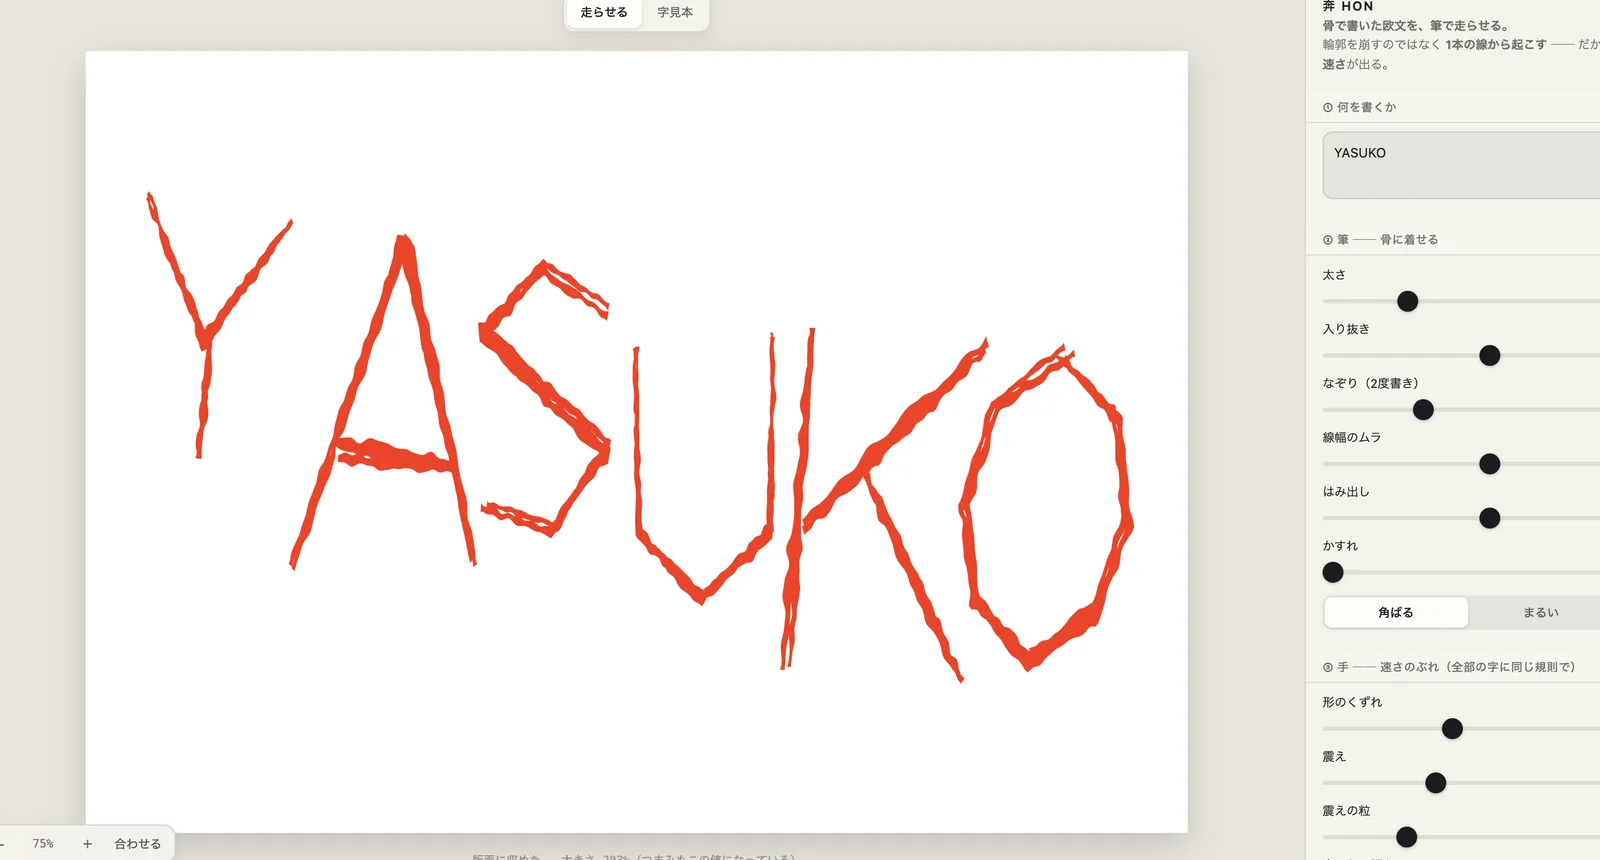
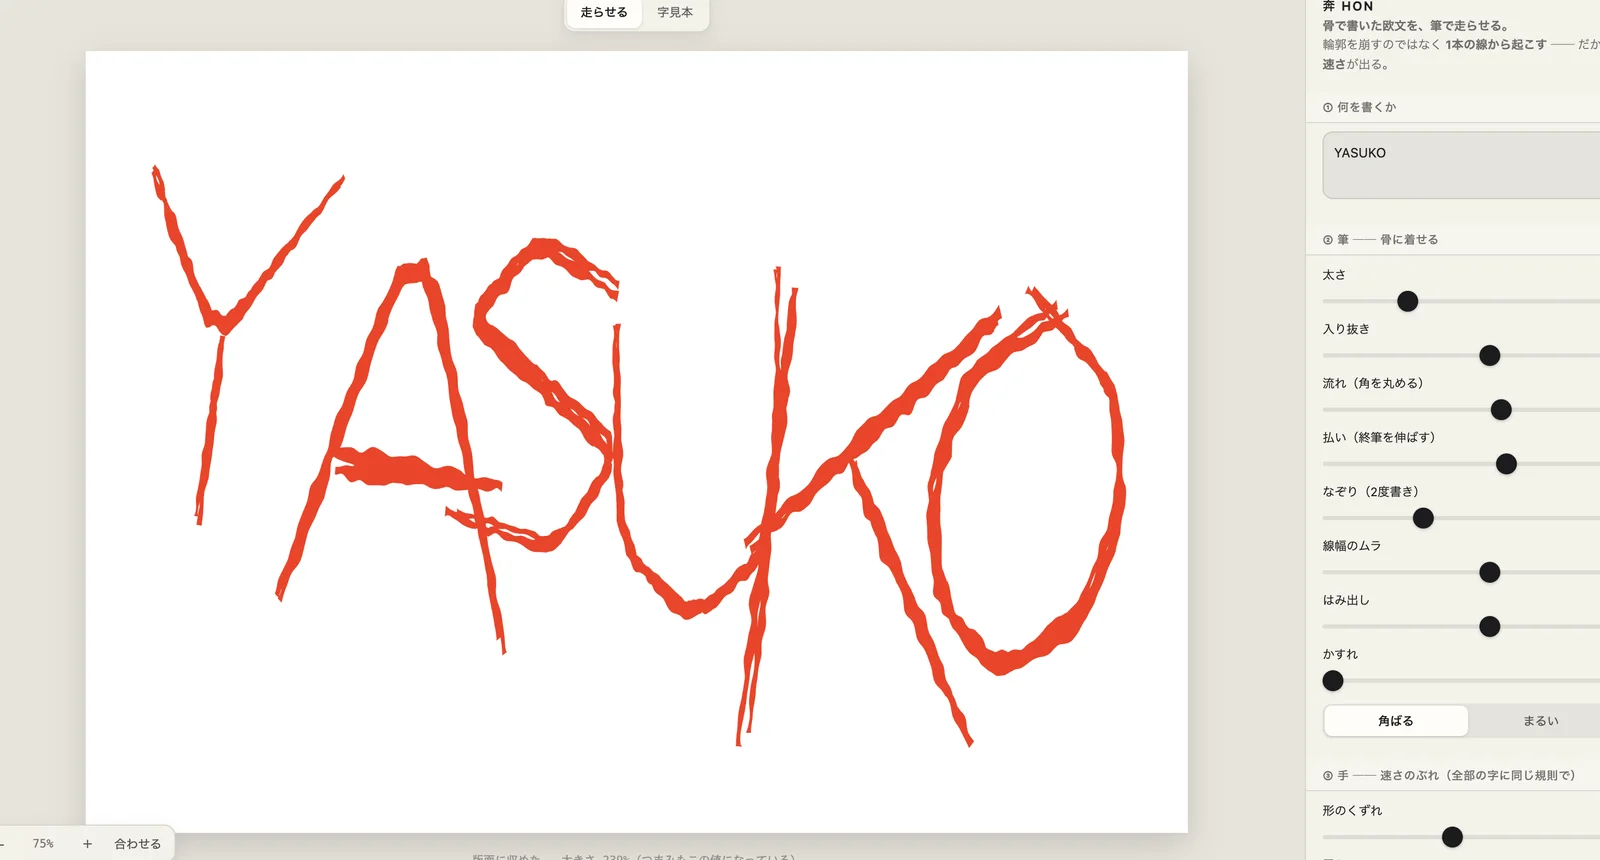
奔 HON：参考に寄せた ── ブロック体を崩したものではなく【続け書き】だった
木下「できているのをみているが全然違うな」「なんとか寄せてくれ！」

🔴 直す前は【ブロック体（幾何のポリライン）を崩したもの】だった。
   参考（ゆきてかへらぬの赤い手書き）を高い解像度で読むと**続け書き**で、
   角がぜんぶ丸く、終筆が長く鋭く払われ、字どうしが重なっていた。

⭐ 足した3つ
 ・**流れ（角を丸める）** ＝ Chaikin の切り落としを筆を着せる前に掛ける。
   ⚠ 端の点は動かさない（払いの先が縮むと抜きが効かない）
 ・**払い（終筆を伸ばす）** ＝ 入りより抜きを圧倒的に長く。
   ⚠ 両端おなじだけ伸ばすと「ただの延長」に見える
 ・入り抜きも**左右非対称**に ＝ 入りは短く鈍く・抜きは長く鋭く
   （左右対称だと「両端が細い棒」に見えていた）
⭐ 字送りを 76→62 に詰めて**字どうしを重ねた**／字ごとの傾きを 36→48

⭐ 前の回で入れた【形のくずれ】＝骨の点そのものを動かす。
   手書きが手書きに見えるのは「線が揺れる」からではなく
   **狙った位置に点が置けない**から（払いの先ほど狙いが外れるので端は1.5倍）。

回帰 16項目・例外0／サムネを焼き直し

Claude-Session: https://claude.ai/code/session_01J51kes4nuNVwXFRqMW8yBk

diff --git a/hon/index.html b/hon/index.html
@@ -119,6 +119,10 @@
     <input type="range" id="pW" min="4" max="200" value="58">
     <div class="row"><span class="n">入り抜き</span><output id="oTaper">58</output></div>
     <input type="range" id="taper" min="0" max="100" value="58">
+    <div class="row"><span class="n">流れ（角を丸める）</span><output id="oFlow">62</output></div>
+    <input type="range" id="flow" min="0" max="100" value="62">
+    <div class="row"><span class="n">払い（終筆を伸ばす）</span><output id="oSweep">64</output></div>
+    <input type="range" id="sweep" min="0" max="100" value="64">
     <div class="row"><span class="n">なぞり（2度書き）</span><output id="oTrace">2</output></div>
     <input type="range" id="trace" min="1" max="4" value="2">
     <div class="row"><span class="n">線幅のムラ</span><output id="oVary">58</output></div>
@@ -140,8 +144,8 @@
     <input type="range" id="jit" min="0" max="100" value="38">
     <div class="row"><span class="n">震えの粒</span><output id="oJg">30</output></div>
     <input type="range" id="jg" min="4" max="100" value="30">
-    <div class="row"><span class="n">字ごとの傾き</span><output id="oJr">36</output></div>
-    <input type="range" id="jr" min="0" max="100" value="36">
+    <div class="row"><span class="n">字ごとの傾き</span><output id="oJr">48</output></div>
+    <input type="range" id="jr" min="0" max="100" value="48">
     <div class="row"><span class="n">字ごとの大きさ</span><output id="oJs">46</output></div>
     <input type="range" id="js" min="0" max="100" value="46">
     <div class="row"><span class="n">上下のばらつき</span><output id="oJy">42</output></div>
@@ -155,8 +159,8 @@
     <label class="h">④ 走らせる</label>
     <div class="row"><span class="n">大きさ（‰）</span><output id="oSize">230</output></div>
     <input type="range" id="size" min="40" max="900" value="230">
-    <div class="row"><span class="n">字送り</span><output id="oAdv">76</output></div>
-    <input type="range" id="adv" min="30" max="200" value="76">
+    <div class="row"><span class="n">字送り</span><output id="oAdv">62</output></div>
+    <input type="range" id="adv" min="30" max="200" value="62">
     <div class="row"><span class="n">字幅（横に長く）</span><output id="oWide">66</output></div>
     <input type="range" id="wide" min="30" max="180" value="66">
     <div class="row"><span class="n">字高（縦に長く）</span><output id="oTall">118</output></div>
@@ -221,11 +225,13 @@ const S = {
   /* ⭐ 既定は【参考の実測】に寄せる（映画『ゆきてかへらぬ』の赤い手書き）。
      線幅は字の高さの 3.6%／字は縦長（幅:高さ ≒ 0.64）／1字は版面の幅の 21%。
      ⚠ 直す前は 線幅 5.8%・正方の箱だったので「全然違う」形になっていた。 */
-  pen:{ w:58, taper:58, vary:58, over:58, trace:2, dry:0, cap:0 },
+  /* ⭐ 参考は【ブロック体を崩したもの】ではなく【続け書き】── 角が丸く、終筆が長く鋭い。
+     だから 流れ（角を丸める）と 払い（終筆を伸ばす）を持つ。 */
+  pen:{ w:58, taper:58, flow:62, sweep:64, vary:58, over:58, trace:2, dry:0, cap:0 },
   /* ⭐ 参考は【字ごとの不揃いが強い】── 傾き・大きさ・上下がかなりばらつく。
      直す前の既定は整いすぎていて「機械が並べた」ように見えていた。 */
-  hand:{ warp:44, jit:38, jg:30, jr:36, js:46, jy:42, seed:7 },
-  run:{ size:230, adv:76, ang:10, x:8, y:14, wide:66, tall:118, w:1000, h:1500, col:'#e8452a' },
+  hand:{ warp:44, jit:38, jg:30, jr:48, js:46, jy:42, seed:7 },
+  run:{ size:230, adv:62, ang:10, x:8, y:14, wide:66, tall:118, w:1000, h:1500, col:'#e8452a' },
   view:'run',
   out:{ long:2400 },
 };
@@ -298,6 +304,26 @@ const boneOf = ch => BONE[ch.toUpperCase()] || null;
    ⭐ はみ出し＝端を少し伸ばす（交点を越えて走る）。
    ⚠ 震えは【道のりに沿ったなめらかな乱れ】＝画素ごとの乱数だと「ざらざら」になる。
    ══════════════════════════════════════════════════════════════ */
+/* ══⭐⭐ 流れ ── 骨の角を丸めて【続け書き】にする ══
+   🔴 骨は直線のポリライン＝そのまま筆を着せると「ブロック体を崩した字」になる。
+     参考（ゆきてかへらぬの赤い字）は**続け書き**で、角がぜんぶ丸い。
+   ⭐ Chaikin の切り落とし＝各辺の 1/4 と 3/4 に点を打ち直す。回すほど丸くなる。
+   ⚠ 端の点は動かさない（払いの先が縮むと、抜きが効かなくなる）。 */
+function chaikin(pts, k, times){
+  if(k <= 0 || pts.length < 3) return pts;
+  let P = pts;
+  for(let t=0;t<times;t++){
+    const out = [P[0]];
+    for(let i=0;i<P.length-1;i++){
+      const a = P[i], b = P[i+1];
+      out.push([ a[0] + (b[0]-a[0])*(0.25*k), a[1] + (b[1]-a[1])*(0.25*k) ]);
+      out.push([ a[0] + (b[0]-a[0])*(1-0.25*k), a[1] + (b[1]-a[1])*(1-0.25*k) ]);
+    }
+    out.push(P[P.length-1]);
+    P = out;
+  }
+  return P;
+}
 function resample(pts, step){
   const out = [pts[0]];
   let carry = 0;
@@ -321,11 +347,16 @@ function resample(pts, step){
 function strokeOutline(pts, w, seed){
   const P = S.pen, H = S.hand;
   /* はみ出し＝端を伸ばす */
-  const ov = (P.over/100) * w * 0.9;
-  if(ov > 0 && pts.length >= 2){
-    const ext = (a,b) => { const d = Math.hypot(b[0]-a[0], b[1]-a[1]) || 1;
-      return [ a[0] + (a[0]-b[0])/d*ov, a[1] + (a[1]-b[1])/d*ov ]; };
-    pts = [ext(pts[0], pts[1]), ...pts, ext(pts[pts.length-1], pts[pts.length-2])];
+  /* ⭐ 流れ＝角を丸める（続け書きにする）。⚠ 筆を着せる前に掛ける */
+  pts = chaikin(pts, P.flow/100, 2);
+  /* ⭐ はみ出し＝入り側／⭐⭐ 払い＝【終筆だけ】長く伸ばす。
+     ⚠ 参考は入りより抜きが圧倒的に長い（速く払った跡）。両端おなじだと「ただの延長」に見える。 */
+  const ovIn = (P.over/100) * w * 0.9;
+  const ovOut = ovIn + (P.sweep/100) * w * 4.2;
+  if(pts.length >= 2){
+    const ext = (a,b,d0) => { const d = Math.hypot(b[0]-a[0], b[1]-a[1]) || 1;
+      return [ a[0] + (a[0]-b[0])/d*d0, a[1] + (a[1]-b[1])/d*d0 ]; };
+    pts = [ext(pts[0], pts[1], ovIn), ...pts, ext(pts[pts.length-1], pts[pts.length-2], ovOut)];
   }
   const step = Math.max(2, w*0.22);
   const R = resample(pts, step);
@@ -366,9 +397,11 @@ function strokeOutline(pts, w, seed){
     const len = Math.hypot(nx,ny) || 1; nx/=len; ny/=len;
     const t = i/(n-1);
     /* 入り抜き＝両端で細る（真ん中は太いまま） */
+    /* ⭐ 入りは短く鈍く・抜きは長く鋭く（速く払った跡）。⚠ 左右対称だと「両端が細い棒」に見える */
     const k = P.taper/100;
-    const e = Math.min(t, 1-t)*2;                      /* 端で0・真ん中で1 */
-    const wid = w * vary[i] * (1 - k*(1 - Math.pow(Math.min(1,e*1.6), 0.7))) * 0.5;
+    const eIn = Math.min(1, t*7), eOut = Math.min(1, (1-t)*2.2);
+    const e = Math.min(eIn, eOut);
+    const wid = w * vary[i] * (1 - k*(1 - Math.pow(e, 0.85))) * 0.5;
     const cxp = R[i][0] + nx*wob(i)*amp, cyp = R[i][1] + ny*wob(i)*amp;
     L.push([cxp + nx*wid, cyp + ny*wid]);
     Rt.push([cxp - nx*wid, cyp - ny*wid]);
@@ -379,7 +412,7 @@ function strokeOutline(pts, w, seed){
 const cache = new Map();
 function glyph(ch, i){
   const H = S.hand, P = S.pen;
-  const key = ch + '|' + i + '|' + [P.w,P.taper,P.vary,P.over,P.trace,P.cap,H.warp,H.jit,H.jg,H.seed].join(',');
+  const key = ch + '|' + i + '|' + [P.w,P.taper,P.flow,P.sweep,P.vary,P.over,P.trace,P.cap,H.warp,H.jit,H.jg,H.seed].join(',');
   if(cache.has(key)) return cache.get(key);
   const bone = boneOf(ch);
   if(!bone){ cache.set(key, []); return []; }
@@ -582,12 +615,12 @@ function meter(){
 function stat(s){ $('stat').textContent = s; }
 
 /* ══ つまみ ══ ⭐ 配線は1か所 */
-const OUTID = { pW:'oW', taper:'oTaper', vary:'oVary', trace:'oTrace', over:'oOver', dry:'oDry',
+const OUTID = { pW:'oW', taper:'oTaper', flow:'oFlow', sweep:'oSweep', vary:'oVary', trace:'oTrace', over:'oOver', dry:'oDry',
   wide:'oWide', tall:'oTall',
   warp:'oWarp', jit:'oJit', jg:'oJg', jr:'oJr', js:'oJs', jy:'oJy', seed:'oSeed',
   size:'oSize', adv:'oAdv', ang:'oAng', x:'oX', y:'oY', outLong:'oOut' };
 function out(id){ const o=$(OUTID[id]); if(o) o.textContent = $(id).value; }
-const PEN = { pW:'w', taper:'taper', vary:'vary', trace:'trace', over:'over', dry:'dry' };
+const PEN = { pW:'w', taper:'taper', flow:'flow', sweep:'sweep', vary:'vary', trace:'trace', over:'over', dry:'dry' };
 Object.entries(PEN).forEach(([id,key]) => $(id).addEventListener('input', e => {
   S.pen[key] = +e.target.value; out(id); cache.clear(); draw(); }));
 const HAND = { warp:'warp', jit:'jit', jg:'jg', jr:'jr', js:'js', jy:'jy', seed:'seed' };
